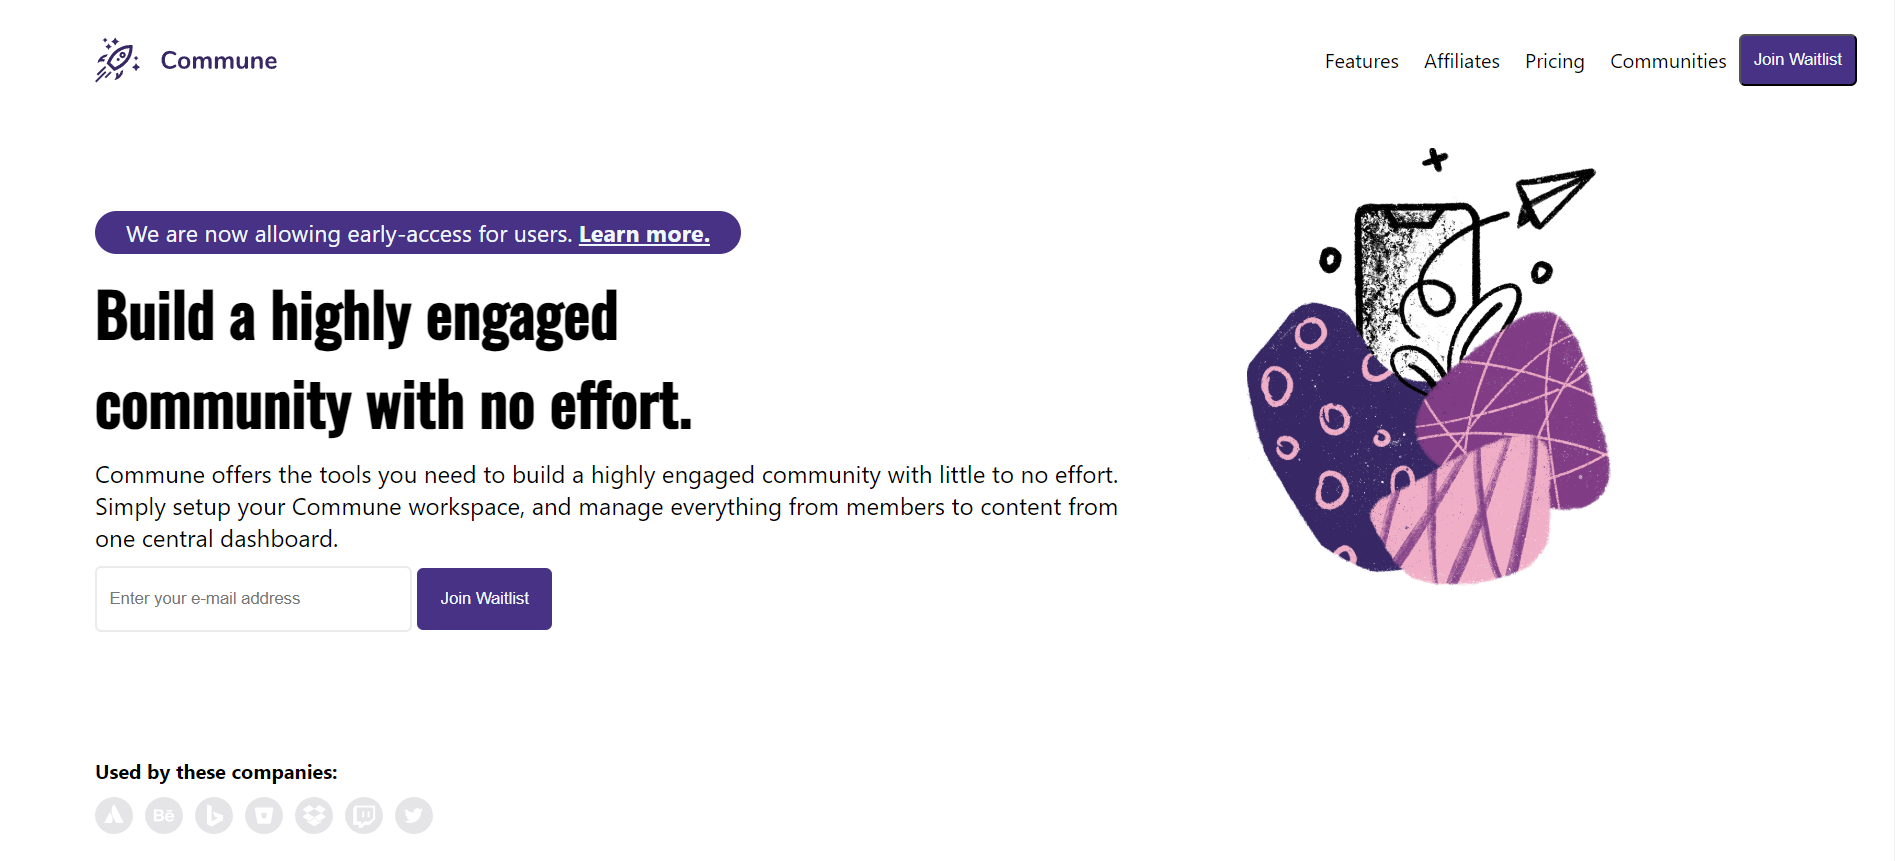
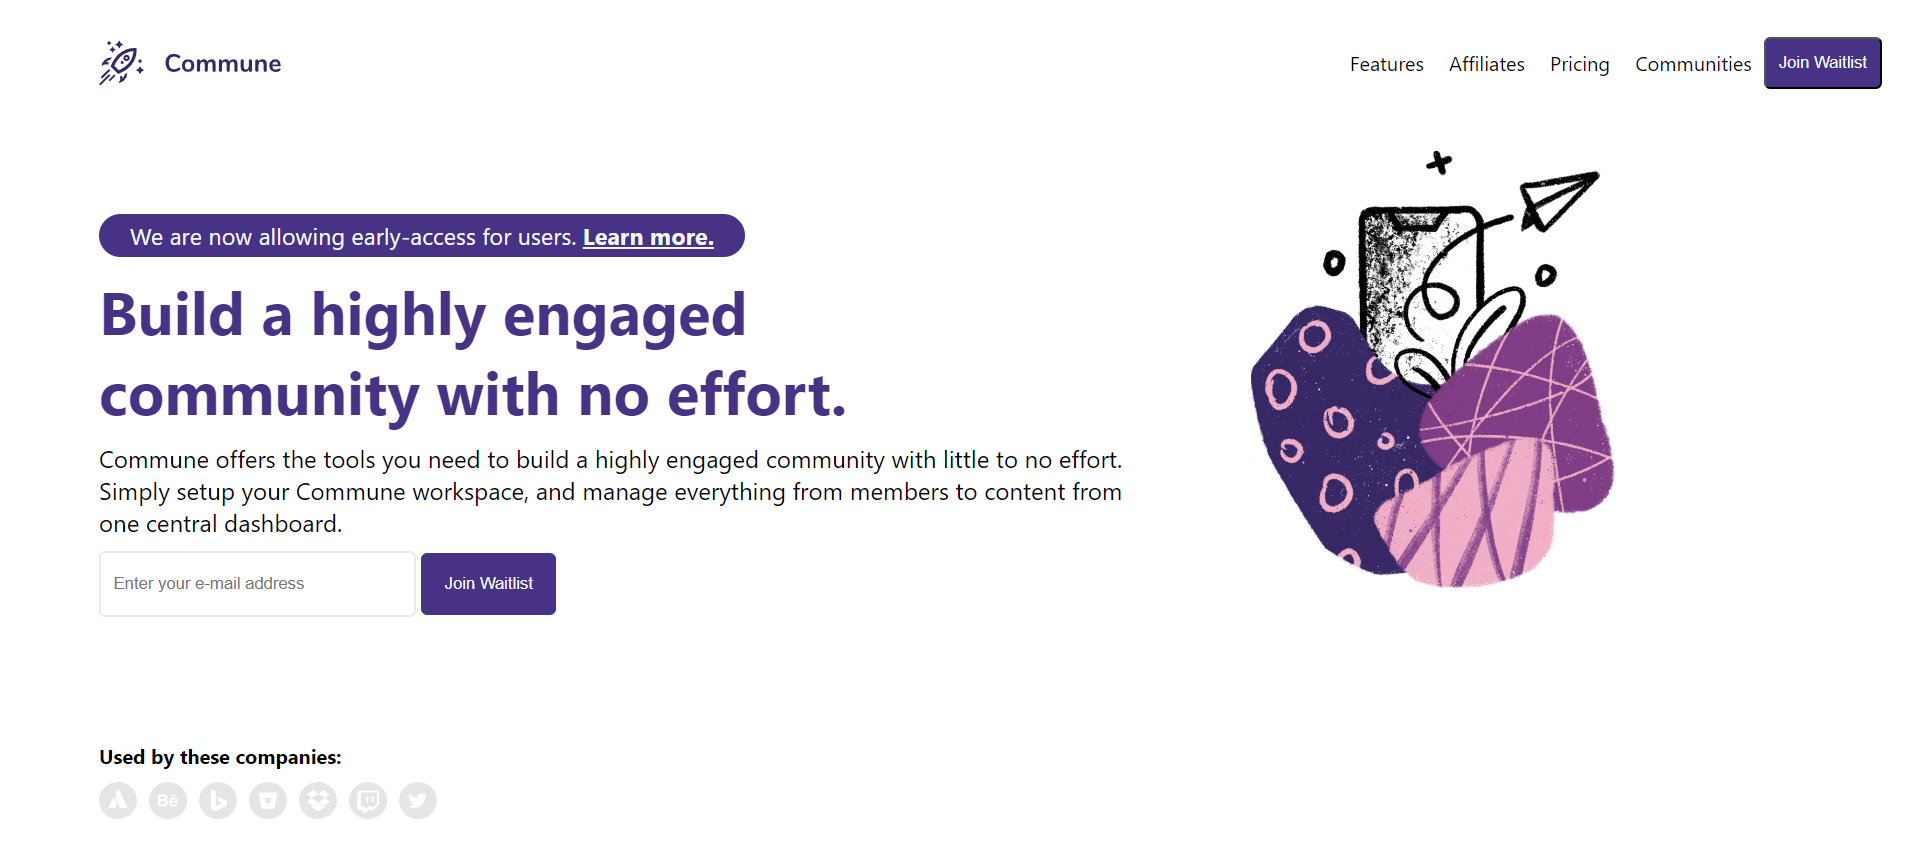
changed output image

diff --git a/Commune Waitlist Page/style.css b/Commune Waitlist Page/style.css
@@ -48,10 +48,11 @@ body {
 }
 
 .build_a {
+    color: #483285;
     font-size: 3rem;
     width: 50vw;
     margin-bottom: 10px;
-    font-family: oswald;
+    font-family: system-ui, -apple-system, BlinkMacSystemFont, 'Segoe UI', Roboto, Oxygen, Ubuntu, Cantarell, 'Open Sans', 'Helvetica Neue', sans-serif;
 }
 
 p {
